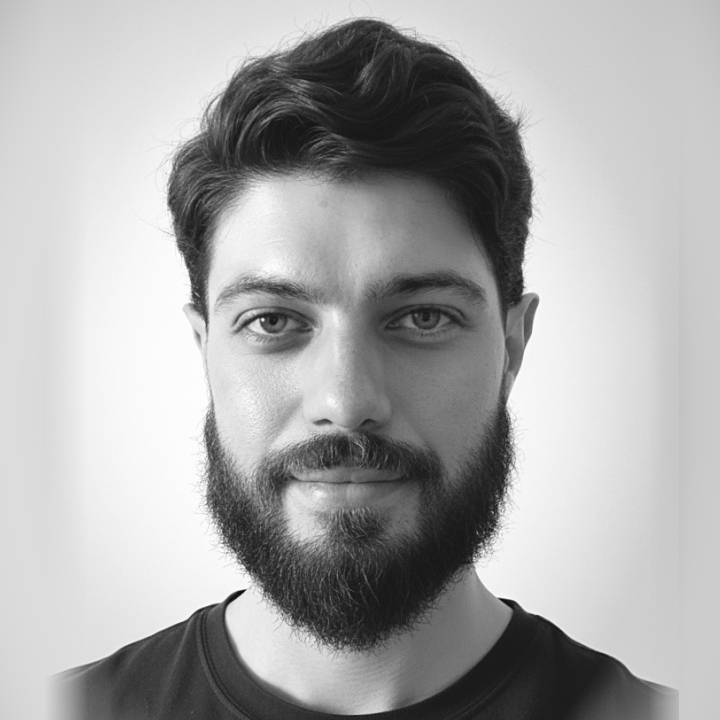
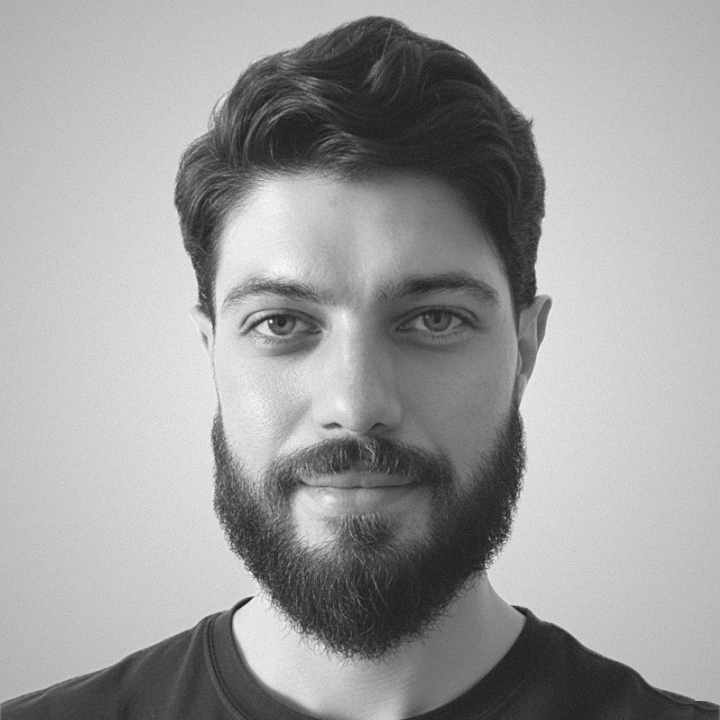
Updating the text and profile image

diff --git a/app/page.tsx b/app/page.tsx
@@ -9,6 +9,8 @@ import { NavBar } from "@/components/navbar";
 import { PartnersSection } from "@/components/partners-section";
 import { SocialLinks } from "@/components/social-links";
 import { WorksSection } from "@/components/works-section";
+import Image from "next/image";
+import Link from "next/link";
 
 export default function Home() {
   return (
@@ -20,9 +22,22 @@ export default function Home() {
         {/* Hero Section */}
         <div className="grid grid-cols-1 lg:grid-cols-1 gap-8 mb-24 mt-12">
           <div className="col-span-1">
+            <Link href="/" className="flex items-center align-bottom gap-3">
+            <h1 className=" leading-[1.1]">Hi, i'm </h1>
+            <Image
+              src="/images/profile-photo-light.png"
+              alt="Designer portrait"
+              width={180}
+              height={180}
+              className="w-20 h-auto object-contain rounded-3xl"
+            />
+            <div className="flex flex-col">
+              <h1 className=" leading-[1.1]">Thiago Bueno</h1>
+            </div>
+            </Link>
             <h1 className=" leading-[1.1] mb-8">
-              pushing pixels to build standout applications{" "} <br />
-              <span>remarkable UI/UX</span>
+              a software engineer building{" "} <br />
+              <span>standout applications</span>
             </h1>
           </div>
           <div className="col-span-1 lg:col-span-2">
